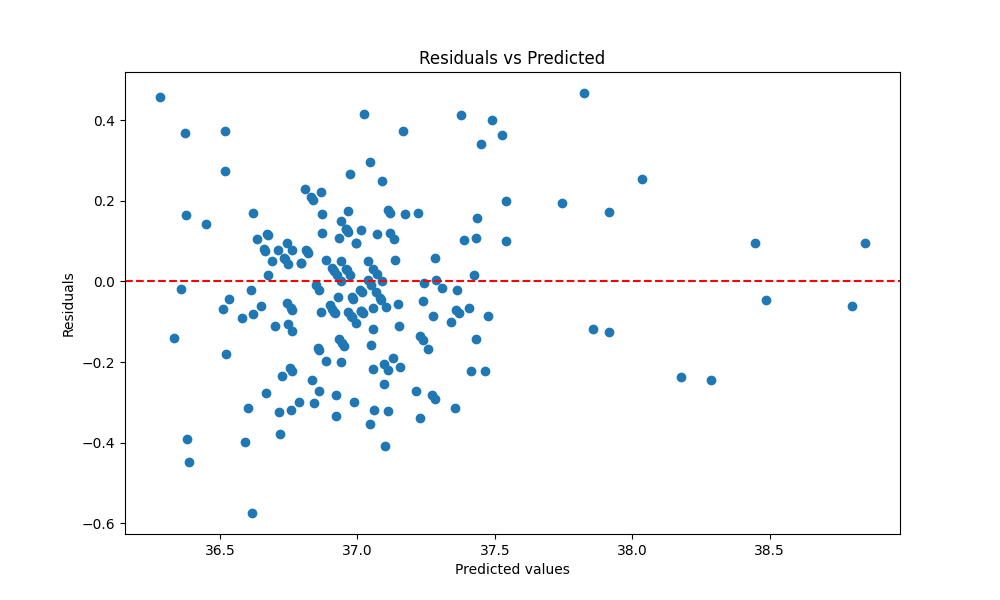
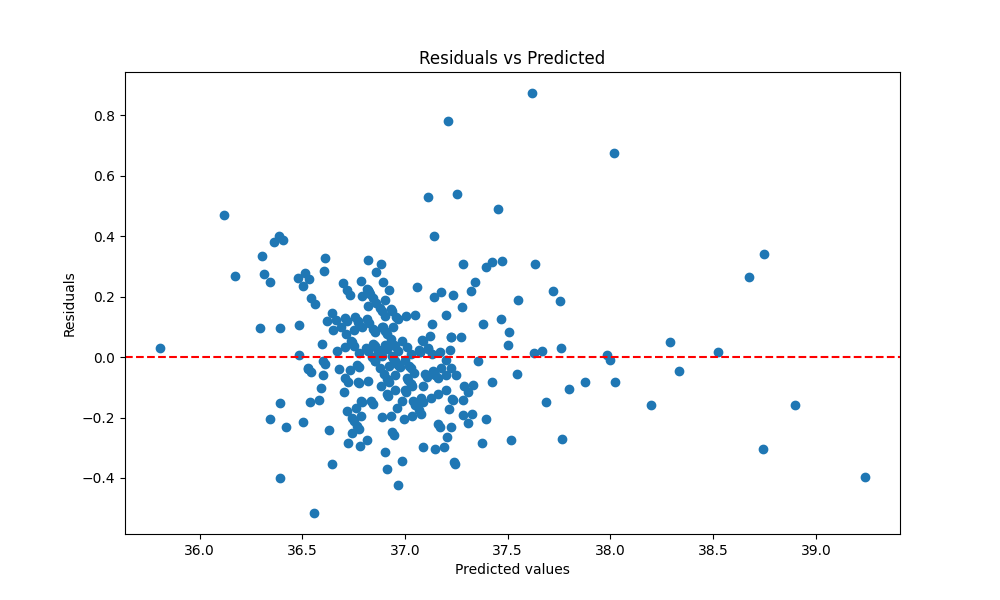
Modification of the sampling technique for logistic regression

diff --git a/Helpers.py b/Helpers.py
@@ -7,6 +7,7 @@ from statsmodels.stats.outliers_influence import variance_inflation_factor
 from sklearn.metrics import confusion_matrix, roc_curve, auc
 import numpy as np
 import seaborn as sns
+from sklearn.metrics import accuracy_score, precision_score, recall_score, f1_score
 
 
 def plot_histogram(df, output_folder=None, filename="histogram.png"):
@@ -105,9 +106,9 @@ def compute_and_plot_correlation(df, target, output_folder, filename="correlatio
 
 
 # Split data into test and train.
-def split_data(df_thermography, feature, test_size=0.2, random_state=None):
-    y = df_thermography[feature]
-    x = df_thermography.drop([feature], axis=1)
+def split_data(df, feature, test_size=0.2, random_state=None):
+    y = df[feature]
+    x = df.drop([feature], axis=1)
     x_train_data, x_test_data, y_train_data, y_test_data = train_test_split(
         x, y, test_size=test_size, random_state=random_state
     )
@@ -185,6 +186,50 @@ def plot_residual_distribution(
     plt.close()
 
 
+def print_linear_regression_model_stats(x_test, y_test, yh):
+    # print(calculate_variance_inflation_factor(preprocessed_data))
+    print(f"Mean Absolute Error: {np.mean(np.abs(y_test - yh))}")
+
+    mse = np.mean((y_test - yh) ** 2)
+    print(f"Mean Squared Error: {mse}")
+
+    r_squared = 1 - (
+        np.sum((y_test - yh) ** 2) / np.sum((y_test - np.mean(y_test)) ** 2)
+    )
+    print(f"R-squared: {r_squared}")
+
+    n = len(y_test)  # Number of observations
+    p = x_test.shape[1]  # Number of predictors
+    adjusted_r_squared = 1 - (1 - r_squared) * (n - 1) / (n - p - 1)
+    print(f"Adjusted R-squared: {adjusted_r_squared}")
+
+
+def print_logistic_regression_model_stats(x_test, y_test, yh):
+    # Accuracy
+    accuracy = np.mean(y_test == yh)
+
+    # Precision
+    true_positives = np.sum((yh == 1) & (y_test == 1))
+    predicted_positives = np.sum(yh == 1)
+    precision = true_positives / predicted_positives if predicted_positives > 0 else 0
+
+    # Recall
+    actual_positives = np.sum(y_test == 1)
+    recall = true_positives / actual_positives if actual_positives > 0 else 0
+
+    # F1 Score
+    if precision + recall > 0:
+        f1 = 2 * (precision * recall) / (precision + recall)
+    else:
+        f1 = 0
+
+    print(f"Model Statistics:")
+    print(f"Accuracy: {accuracy:.4f}")
+    print(f"Precision: {precision:.4f}")
+    print(f"Recall: {recall:.4f}")
+    print(f"F1 Score: {f1:.4f}")
+
+
 def plot_correlation_matrix(X, output_folder="Results", title="Correlation Matrix"):
     plt.figure(figsize=(20, 20))
     heatmap = sns.heatmap(X.corr(), vmin=-1, vmax=1, annot=True, cmap="Blues")
@@ -240,3 +285,19 @@ def plot_roc_curve(y_true, y_hat, output_folder="Results", title="ROC_Curve"):
     plot_path = os.path.join(output_folder, f"{title}.png")
     plt.savefig(plot_path)
     plt.close()
+
+
+def oversampling_dataset(df, target, test_size=0.2, random_state=None):
+
+    positive = df[df[target] == 1]  # Extract all the true features in the dataset
+    negative = df[df[target] == 0]  # Extract all the false features in the dataset
+
+    # Select an equal number of negative examples as positive_train for training
+    negative_sample = negative.sample(n=len(positive), random_state=random_state)
+    df = pd.concat([positive, negative_sample])
+
+    x_train, x_test, y_train, y_test = split_data(
+        df, target, test_size=test_size, random_state=None
+    )
+
+    return x_train, x_test, y_train, y_test

diff --git a/InfraredThermographyTemperature/PrepareDataset.py b/InfraredThermographyTemperature/PrepareDataset.py
@@ -83,7 +83,9 @@ def fetch_Data():
 
 
 def perform_linear_regression(preprocessed_data):
-    x_train, x_test, y_train, y_test = split_data(preprocessed_data, "aveOralM")
+    x_train, x_test, y_train, y_test = split_data(
+        preprocessed_data, "aveOralM", test_size=0.3, random_state=42
+    )
     x_train_scaled, x_test_scaled = scale_data(x_train, x_test)
 
     lr = LinearRegression()
@@ -92,28 +94,15 @@ def perform_linear_regression(preprocessed_data):
 
     plot_actual_vs_predicted(y_test, yh, "aveOralM", "Results")
 
-    # print(calculate_variance_inflation_factor(preprocessed_data))
-    print(f"Mean Absolute Error: {np.mean(np.abs(y_test - yh))}")
-
-    mse = np.mean((y_test - yh) ** 2)
-    print(f"Mean Squared Error: {mse}")
-
-    r_squared = 1 - (
-        np.sum((y_test - yh) ** 2) / np.sum((y_test - np.mean(y_test)) ** 2)
-    )
-    print(f"R-squared: {r_squared}")
-
-    n = len(y_test)  # Number of observations
-    p = x_test.shape[1]  # Number of predictors
-    adjusted_r_squared = 1 - (1 - r_squared) * (n - 1) / (n - p - 1)
-    print(f"Adjusted R-squared: {adjusted_r_squared}")
-
+    print_linear_regression_model_stats(x_test, y_test, yh)
     plot_residual(y_test, yh, "Results")
     plot_residual_distribution(y_test, yh, "Results")
 
 
 def perform_MBS_linear_regression(preprocessed_data):
-    x_train, x_test, y_train, y_test = split_data(preprocessed_data, "aveOralM")
+    x_train, x_test, y_train, y_test = split_data(
+        preprocessed_data, "aveOralM", test_size=0.3, random_state=42
+    )
     x_train_scaled, x_test_scaled = scale_data(x_train, x_test)
 
     lr = MiniBatchStochasticLinearRegression(batch_size=32)
@@ -124,13 +113,61 @@ def perform_MBS_linear_regression(preprocessed_data):
         y_test, yh, "aveOralM", "Results", "miniBatchLinearRegression"
     )
 
+    print_linear_regression_model_stats(x_test, y_test, yh)
+
+    plot_residual(y_test, yh, "Results", "Mini_Batch_Linear_Regression_Residual.png")
+
+    plot_residual_distribution(
+        y_test, yh, "Results", "Mini_Batch_Linear_Regression_Residual_Distribution.png"
+    )
+
 
 def main():
     df = fetch_Data()
 
-    plot_correlation_matrix(df, "Results", "Infrared_Thermography_Correlation_Matrix")
+    plot_correlation_matrix(
+        df,
+        "Results",
+        "Infrared_Thermography_Correlation_Matrix_Before_Dropping_Values.png",
+    )
+    print("\nTest without dropping values:")
+    perform_linear_regression(df)
+
+    columns_to_drop = [
+        "T_RC_Dry1",
+        "T_RC_Wet1",
+        "T_RC_Max1",
+        "T_LC_Dry1",
+        "T_LC_Wet1",
+        "T_LC_Max1",
+        "canthi4Max1",
+        "T_FHRC1",
+        "T_FHLC1",
+        "T_FHBC1",
+        "T_FHTC1",
+        "T_OR1",
+        "T_Max1",
+        "T_FH_Max1",
+        "T_FHC_Max1",
+        "LCC1",
+        "canthiMax1",
+        "Max1R13_1",
+        "aveAllL13_1",
+        "T_RC1",
+        "T_LC1",
+        "RCC1",
+    ]
+    df.drop(columns_to_drop, axis=1, inplace=True)
+
+    plot_correlation_matrix(
+        df,
+        "Results",
+        "Infrared_Thermography_Correlation_Matrix_After_Dropping_Values.png",
+    )
 
     plot_variance_inflation_factor(df, "Diabetes_binary", "Results")
+
+    print("\nTest after dropping values:")
     perform_linear_regression(df)
 
     # perform_MBS_linear_regression(df)

diff --git a/DiabetesHealthIndicators/PrepareDataset.py b/DiabetesHealthIndicators/PrepareDataset.py
@@ -2,6 +2,14 @@ import pandas as pd
 import numpy as np
 from LogisticRegression import *
 from Assignment1.Helpers import *
+from sklearn.metrics import (
+    accuracy_score,
+    precision_score,
+    recall_score,
+    f1_score,
+    roc_auc_score,
+    confusion_matrix,
+)
 
 # Not much data to be pre-processed here.
 
@@ -12,17 +20,26 @@ def fetch_data():
 
 def perform_logistic_regression(preprocessed_data):
 
-    preprocessed_data = preprocessed_data.dropna()
-    preprocessed_data = preprocessed_data.drop(columns=["ID"])
+    preprocessed_data.dropna(inplace=True)
+    preprocessed_data.drop(columns=["ID"], inplace=True)
+    preprocessed_data.drop_duplicates(inplace=True)
 
-    x_train, x_test, y_train, y_test = split_data(preprocessed_data, "Diabetes_binary")
+    x_train, x_test, y_train, y_test = oversampling_dataset(
+        preprocessed_data, "Diabetes_binary"
+    )
+    # x_train, x_test, y_train, y_test = split_data(preprocessed_data, "Diabetes_binary")
     x_train_scaled, x_test_scaled = scale_data(x_train, x_test)
-    lr = LogisticRegression(0.05, 1000, 1e-8, True)
+
+    lr = LogisticRegression(0.01, 1000, 1e-8, True)
     lr.fit(x_train_scaled, y_train)
     yh_bool, yh_real = lr.predict(x_test_scaled)
 
+    plot_residual(y_test, yh_bool, "Results")
+    plot_residual_distribution(y_test, yh_bool, "Results")
     # Plot confusion matrix
     plot_confusion_matrix(y_test, yh_bool)
+
+    print_logistic_regression_model_stats(x_test, y_test, yh_bool)
 
     # Plot ROC curve
     plot_roc_curve(y_test, yh_real)
